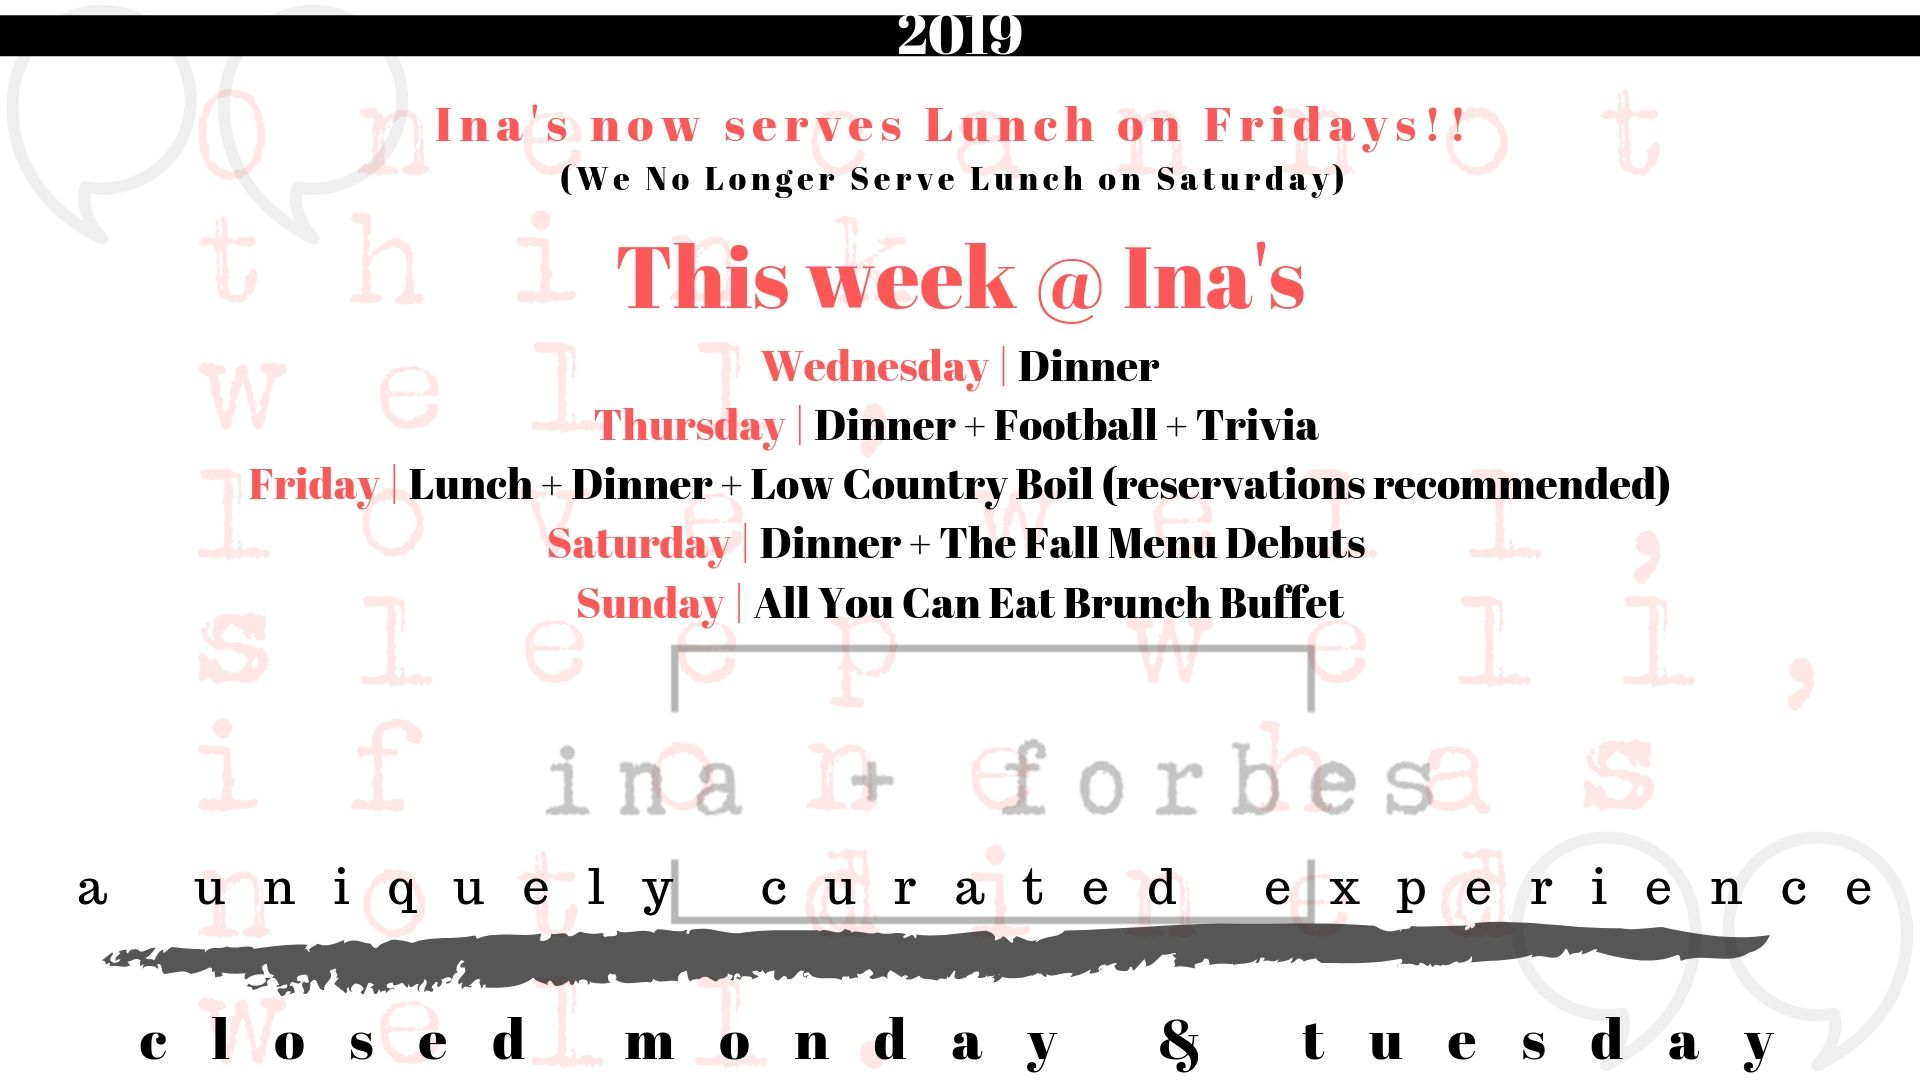
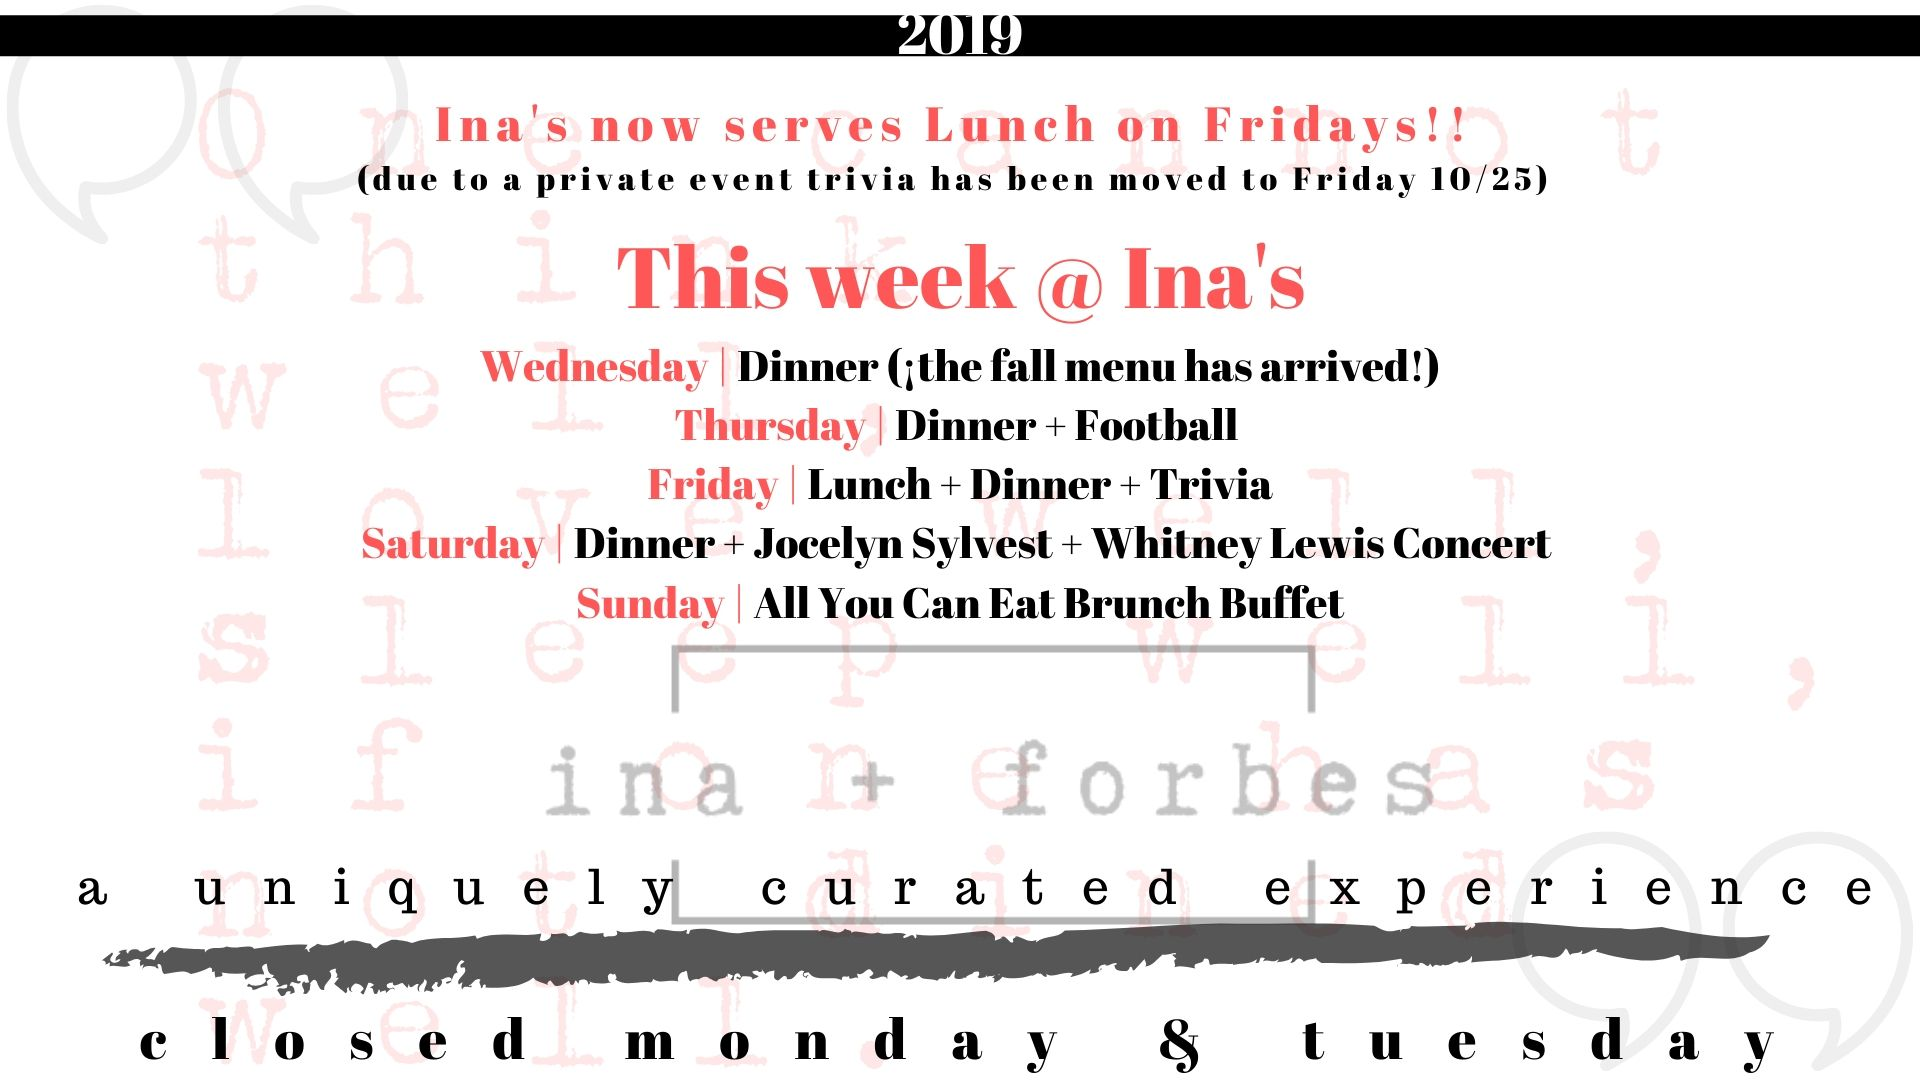
home and menu update

Changed region(s): [[0.125, 0.3056, 0.875, 0.5194], [0.1875, 0.1528, 0.8125, 0.1833]]

diff --git a/src/Home.js b/src/Home.js
@@ -2,6 +2,7 @@ import React from 'react';
 import Carousel from './carousel/Carousel';
 import { Container, Row, Col, } from 'react-bootstrap';
 import HomeMain from './images/HomeMain.jpg';
+import fallCalendar from './images/fallCalendar.jpg';
 import SitL from './images/SitL.png';
 
 
@@ -22,6 +23,18 @@ class Home extends React.Component {
                                     flexdirection="column"
                                         alt="GrandOpeningEvent"
                                         src={HomeMain}
+                                        style={styles.image}
+                                    />
+                                </Col>
+                            </Row>
+                            <Row className="justify-content-space-evenly">
+                                <Col>
+                                    <img
+                                    className="Gallery"
+                                    justifyContent="center" 
+                                    flexdirection="column"
+                                        alt="autumn calendar"
+                                        src={fallCalendar}
                                         style={styles.image}
                                     />
                                 </Col>

diff --git a/src/Navbar.js b/src/Navbar.js
@@ -40,7 +40,7 @@ class Navbar extends React.Component {
                             <li class="nav-item">
                               <a class="nav-link active" 
                                   style={styles.navbar}                                             
-                                  href="https://goo.gl/maps/2ydrYLowu13f6cHQ9" >
+                                  href="https://www.google.com/maps/place/Ina+%2B+Forbes/@36.9046415,-82.3137258,17z/data=!3m1!4b1!4m5!3m4!1s0x885aaf0e329f5439:0xf8eb710597e57bd7!8m2!3d36.9046372!4d-82.3115371" >
                                     3021 4th Ave, St. Paul,Va 
                               </a>
                             </li>
